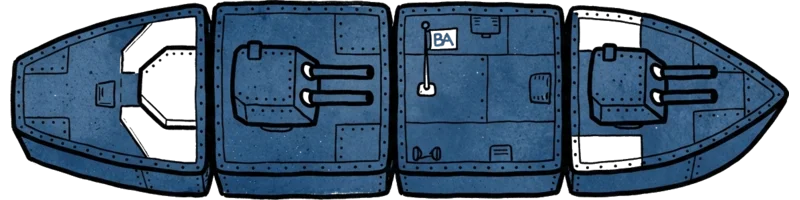
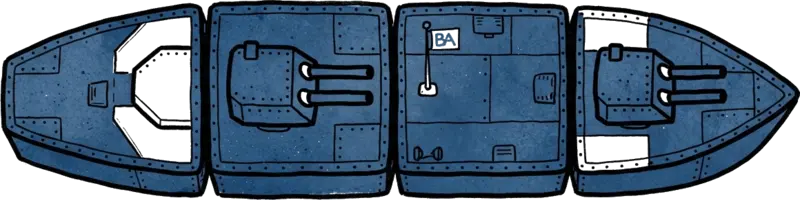
fix(web): manual placement works + ship sprites fill exact cell dimensions
- FleetPlacer: place() computes cells directly from click coords (was broken
  relying on hover that never fired)
- Rework all 8 ship WebPs: force-resize to exact cells×200 dimensions
  (carrier 1000x200, battleship 800x200, cruiser/submarine 600x200)
- Ships now fill their cells properly on the board

diff --git a/apps/web/src/components/game/fleet-placer.tsx b/apps/web/src/components/game/fleet-placer.tsx
@@ -67,8 +67,17 @@ export function FleetPlacer({
 
   const place = useCallback(
     (x: number, y: number) => {
-      if (!currentSpec || !canPlace) return;
-      const cells = Array.from(hoverCells);
+      if (!currentSpec) return;
+      // Compute cells directly from click coords + orientation.
+      const cells: number[] = [];
+      for (let i = 0; i < currentSpec.size; i++) {
+        const cx = orientation === "h" ? x + i : x;
+        const cy = orientation === "h" ? y : y + i;
+        if (cx >= BOARD_SIZE || cy >= BOARD_SIZE) return; // out of bounds
+        const idx = cy * BOARD_SIZE + cx;
+        if (types[idx] !== TYPE_WATER) return; // occupied
+        cells.push(idx);
+      }
       const newTypes = [...types];
       for (const idx of cells) newTypes[idx] = currentSpec.type;
       const newShip: ShipState = {
@@ -77,13 +86,12 @@ export function FleetPlacer({
         type: currentSpec.type,
         cells,
       };
-      const newShips = [...ships, newShip];
       setTypes(newTypes);
-      setShips(newShips);
+      setShips([...ships, newShip]);
       setSelectedShipIdx(0);
       setHoverCell(null);
     },
-    [currentSpec, canPlace, hoverCells, types, ships]
+    [currentSpec, orientation, types, ships]
   );
 
   const reset = useCallback(() => {
